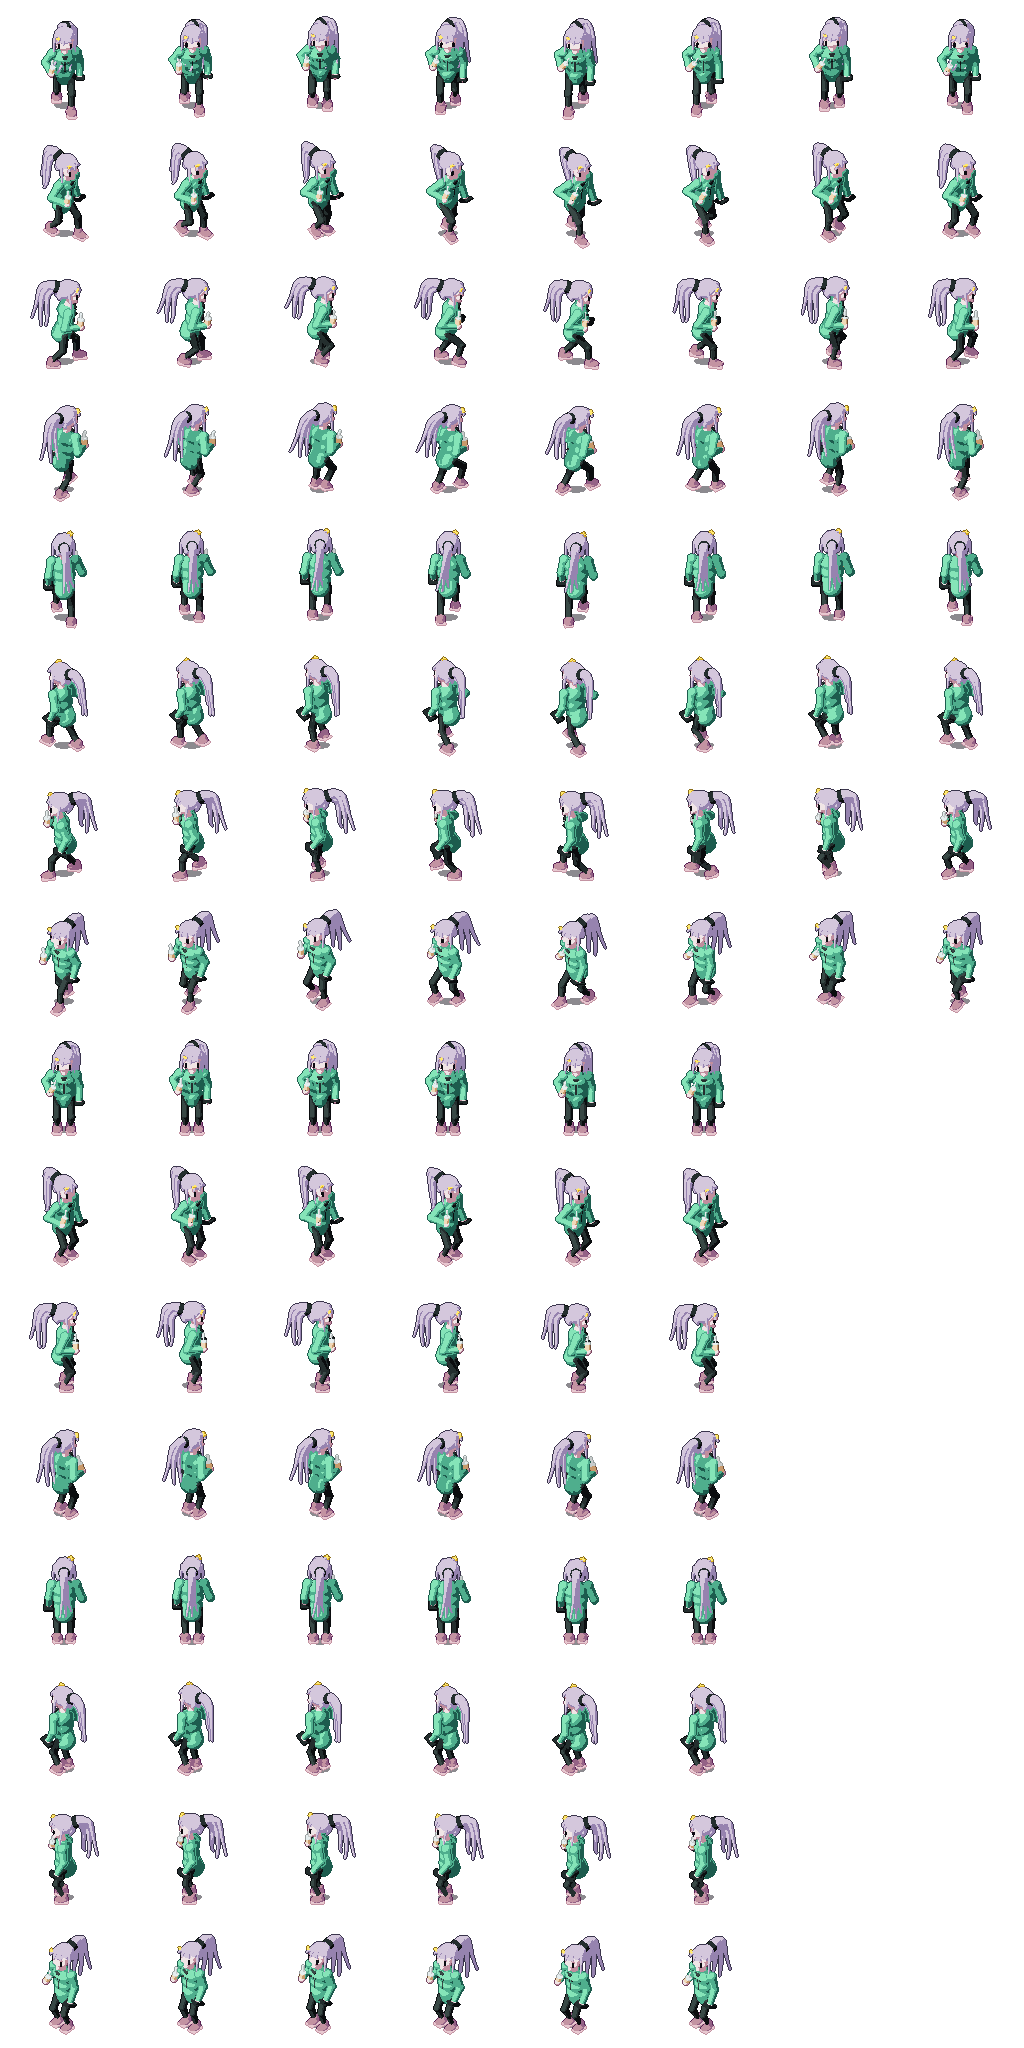
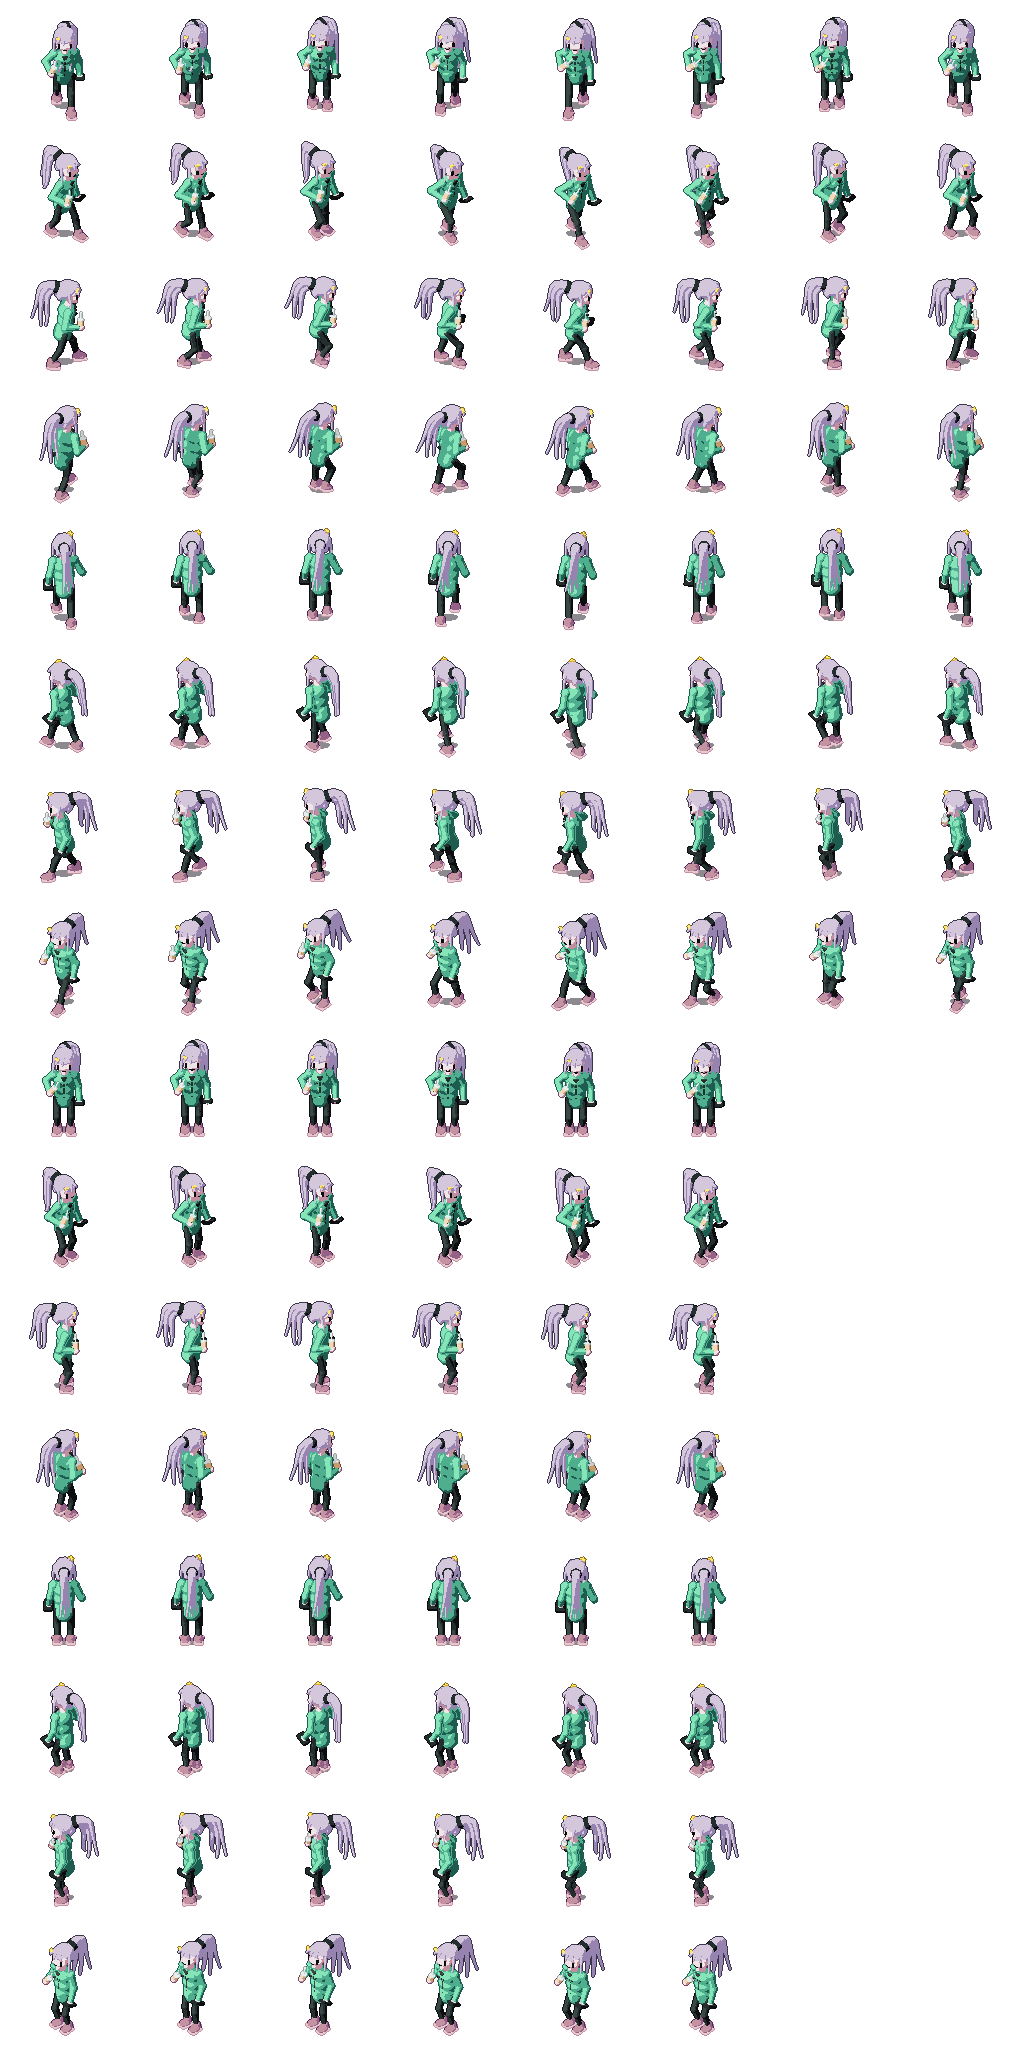
hero-002 スプライト修正2回目：お尻をさらに平らに・口を追加・女性らしいシルエット・膝を伸ばす（候補のまま）

diff --git a/docs/CHARACTER_GRAPHICS.md b/docs/CHARACTER_GRAPHICS.md
@@ -49,6 +49,11 @@
   異なるバリエーションであること。同じキャラの画風違いだけでは、生成される
   スプライトにあまり変化が出ないため、バリエーションにはならない。
   ただしテイストはゲームの世界観で統一する。
+- **男性と女性でシルエットを変える**。同じ体型の使い回しでは性別が
+  読めないため、男性は肩幅が広く胴体がまっすぐなシルエット、女性は肩幅が
+  狭くウエストがくびれ、腰幅が肩幅とほぼ同じシルエットにする。
+  （2026-11-27、hero-002の修正で決定。hero-001＝男性の広い肩、
+  hero-002＝女性の狭い肩＋くびれたウエスト）
 - 番号はプロンプトで指定しやすくするためのもの。
   新しいパターンを作るときは「hero-001のデザインで」と指定できる。
 - 番号は一度振ったら変えない。採用が変わっても番号はそのまま。
@@ -124,13 +129,24 @@ android/assets/
   (2)お尻がオムツみたい→ショートパンツを前後につぶした楕円にし、ジャケット裾も
   細くした。(3)前髪がない→fringe 0.5→0.95＋前髪の塊パーツを追加し、正面系で
   前髪が見えるようにした。修正後 IoU 0.726、27色、歩行ゲート不良セル0。
+- 修正2回目（2026-11-27、にゅーいち指摘の4点。説明書画像・スプラッシュは変更せず、
+  スプライトだけ修正）：(1)お尻がまだ若干オムツぽい→ショートパンツをさらに前後に
+  つぶし（r [0.13,0.08,0.08]）、ジャケット裾も細く・後ろの張り出しを引っ込めて
+  横向きの丸みを解消した。(2)口がない→顔に口のパーツ（inkの笑みアーク）を追加した。
+  低解像度スプラッシュにも口はないが、ref compare はシルエットとパレットしか
+  見ないため、口がない原因は仕様書の顔が「目だけ」だったこと。(3)肩幅がありすぎで
+  女性に見えない→肩をさらに狭く（shoulder_L x 0.19、球 r 0.07）し胴体上部も細く、
+  ウエストをくびれさせて女性らしいシルエットにした。男性と女性でシルエットを
+  変える方針も決めた（上記ルール参照）。(4)膝が常に少し曲がっている→脚IKの
+  ターゲットオフセットを 0.08→0.05 に下げて接地脚の膝を伸ばすことを試し、
+  硬くならず自然に伸びたので採用した。修正後 IoU 0.724、27色、歩行ゲート不良セル0。
 
 ## 現状の主人公パターン（2026-11-27）
 
 | 番号 | デザイン | 画風 | IoU | 色数 | 状態 |
 | --- | --- | --- | --- | --- | --- |
 | hero-001 | 最初のデザイン（オレンジパーカー・スマホ・缶） | レトロピクセルアート調 v1 | 0.785 | 21 | **採用** |
-| hero-002 | 女の子（ミントのジャケット・ポニーテール・ゲーム機・タピオカ） | レトロピクセルアート調 v1 | 0.726 | 27 | **候補** |
+| hero-002 | 女の子（ミントのジャケット・ポニーテール・ゲーム機・タピオカ） | レトロピクセルアート調 v1 | 0.724 | 27 | **候補** |
 
 hero-001 は、にゅーいちが4バリアントを見比べて「視認した感じ一番いい」と
 選んだもの。色が一番フラットで硬い（ランプを3段に短縮）。

diff --git a/docs/ASSET_PIPELINE.md b/docs/ASSET_PIPELINE.md
@@ -421,6 +421,29 @@ is_magenta_pixel と同じ条件）にし、リサイズ後にも純マゼンタ
   27色、歩行地速 65.5 px/s、歩行ゲートは不良セル0（足シートを先に目視）。
   修正前後のコンタクトシート比較は `spritekiln-v2-hero002/` に保存
   （`hero002_contact_before_fix.png` と `hero002_contact.png`）。
+- 修正2回目（2026-11-27、にゅーいち指摘の4点。説明書画像・スプラッシュは変更せず、
+  スプライトだけ修正。すべて `customize_hero002.py` の変更で、仕様書はビルダーから
+  再生成）：(1)お尻がまだ若干オムツぽい→ショートパンツをさらに前後につぶし
+  （r [0.14,0.09,0.095]→[0.13,0.08,0.08]）、ジャケット裾 [0.165,0.17]→
+  [0.15,0.155]・後ろの張り出しを引っ込め、太ももも [0.07,0.05]→[0.062,0.045] に
+  細くして横向きの丸みを解消。(2)口がない→顔に口のパーツ `mouth`（ink素材の
+  笑みアーク、tube r 0.008＝直径0.016。validate は直径0.015未満だと消える・
+  ちらつくと警告する）を追加。低解像度スプラッシュにも口はないが、ref compare は
+  シルエットとパレットしか見ないため、口がない原因は仕様書の顔が「目だけ」
+  だったこと。brief の head・simplify も「目＋小さな笑み」に直した。
+  review.keep に mouth（min_px 2、s/se/sw）を追加。(3)肩幅がありすぎで女性に
+  見えない→肩をさらに狭く（`shoulder_L` x 0.22→0.19、肩の球 r 0.08→0.07、
+  袖も細く）し胴体上部 x 0.21→0.19、ウエスト 0.18→0.165 とくびれさせて女性らしい
+  シルエットに。男性と女性でシルエットを変える方針を設計書にも記録。
+  (4)膝が常に少し曲がっている→原因は脚（0.70）が接地時の股関節〜足首の
+  距離（約0.64）より長く、IKが余りを膝の曲がりで吸収していたこと。脚IKの
+  ターゲットオフセットを 0.08→0.05 に下げて接地脚の膝を伸ばすことを試し、
+  硬くならず自然に伸びたので採用（足が浮くこともなし）。修正後 IoU 0.724
+  （ほぼ変わらず、目標 0.65 以上は維持）、QA ok、27色、歩行地速 65.5 px/s、
+  歩行ゲートは不良セル0（足シートを先に目視）。描画は234秒。
+  修正前後の比較は `spritekiln-v2-hero002/` に保存
+  （`hero002_contact_before_fix2.png`、`out/pose_rest_0_changes_r3_changes.png`
+  ＝頭部の修正前後）。
 - 描画は164秒（単独実行。4バリアント並行時は993〜1481秒かかった）。
 - ゲームには組み込んでいない（候補）。にゅーいちが選ぶまでは hero-001 のまま。
 
